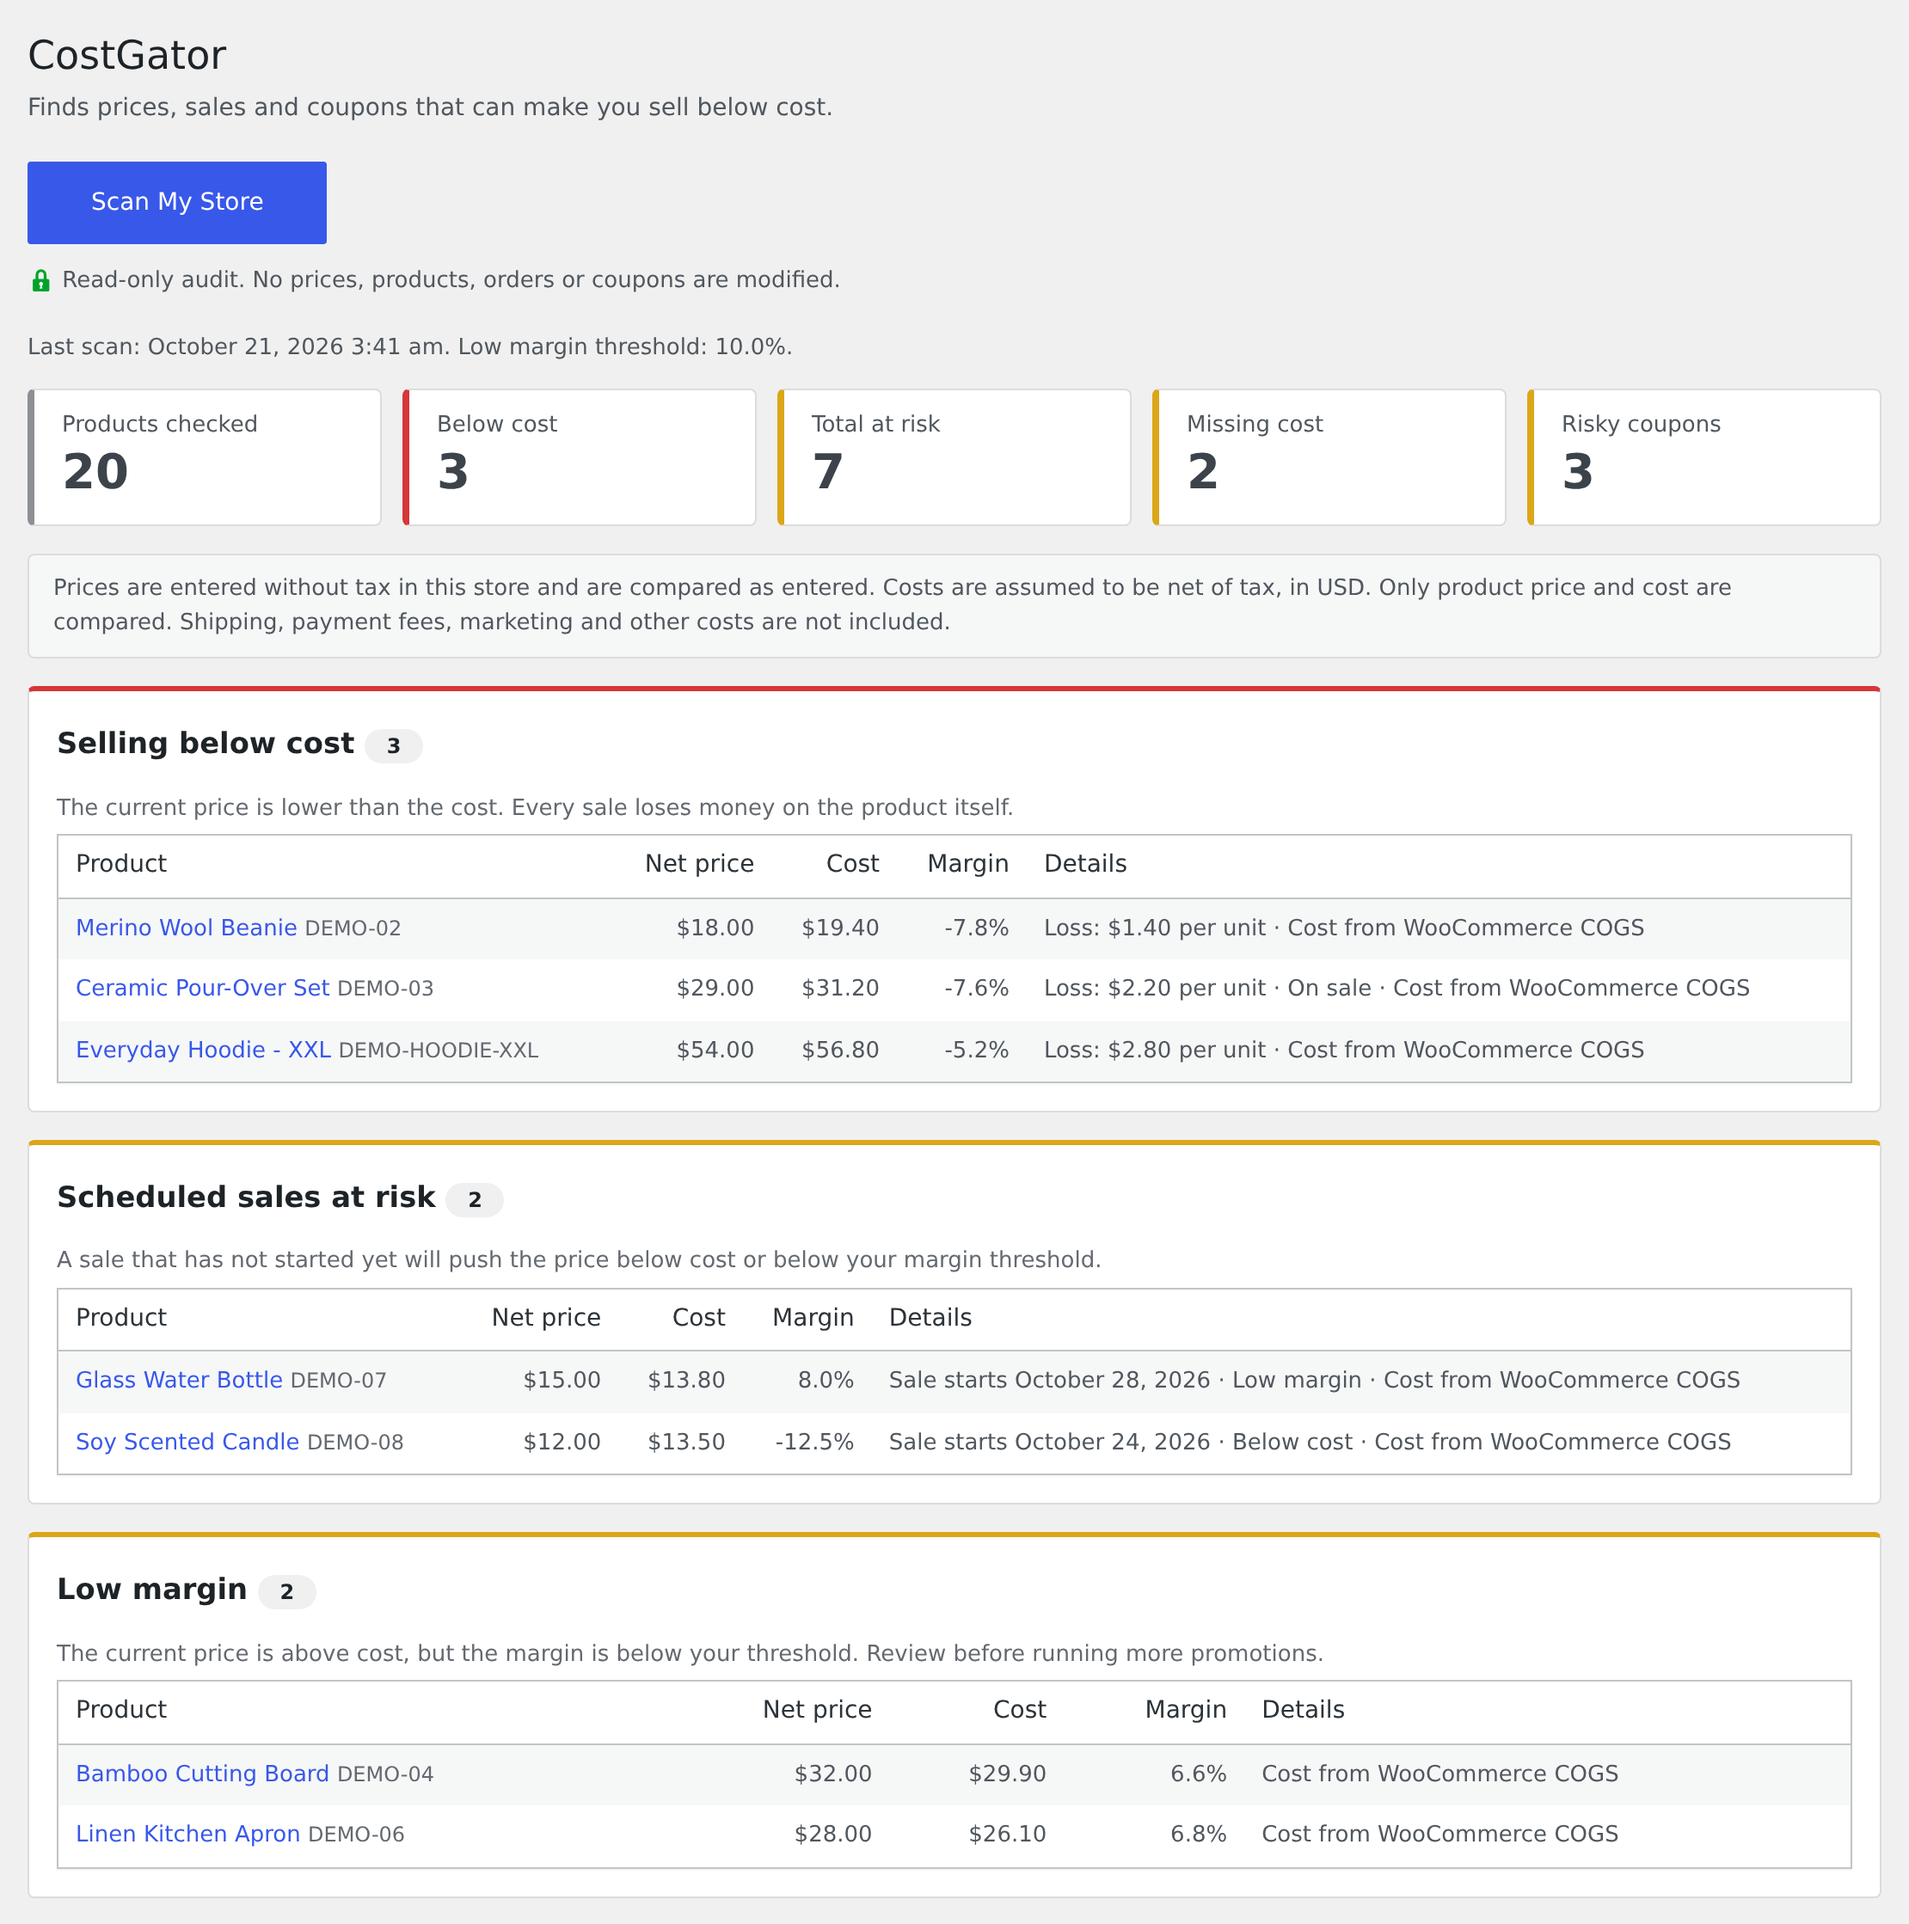
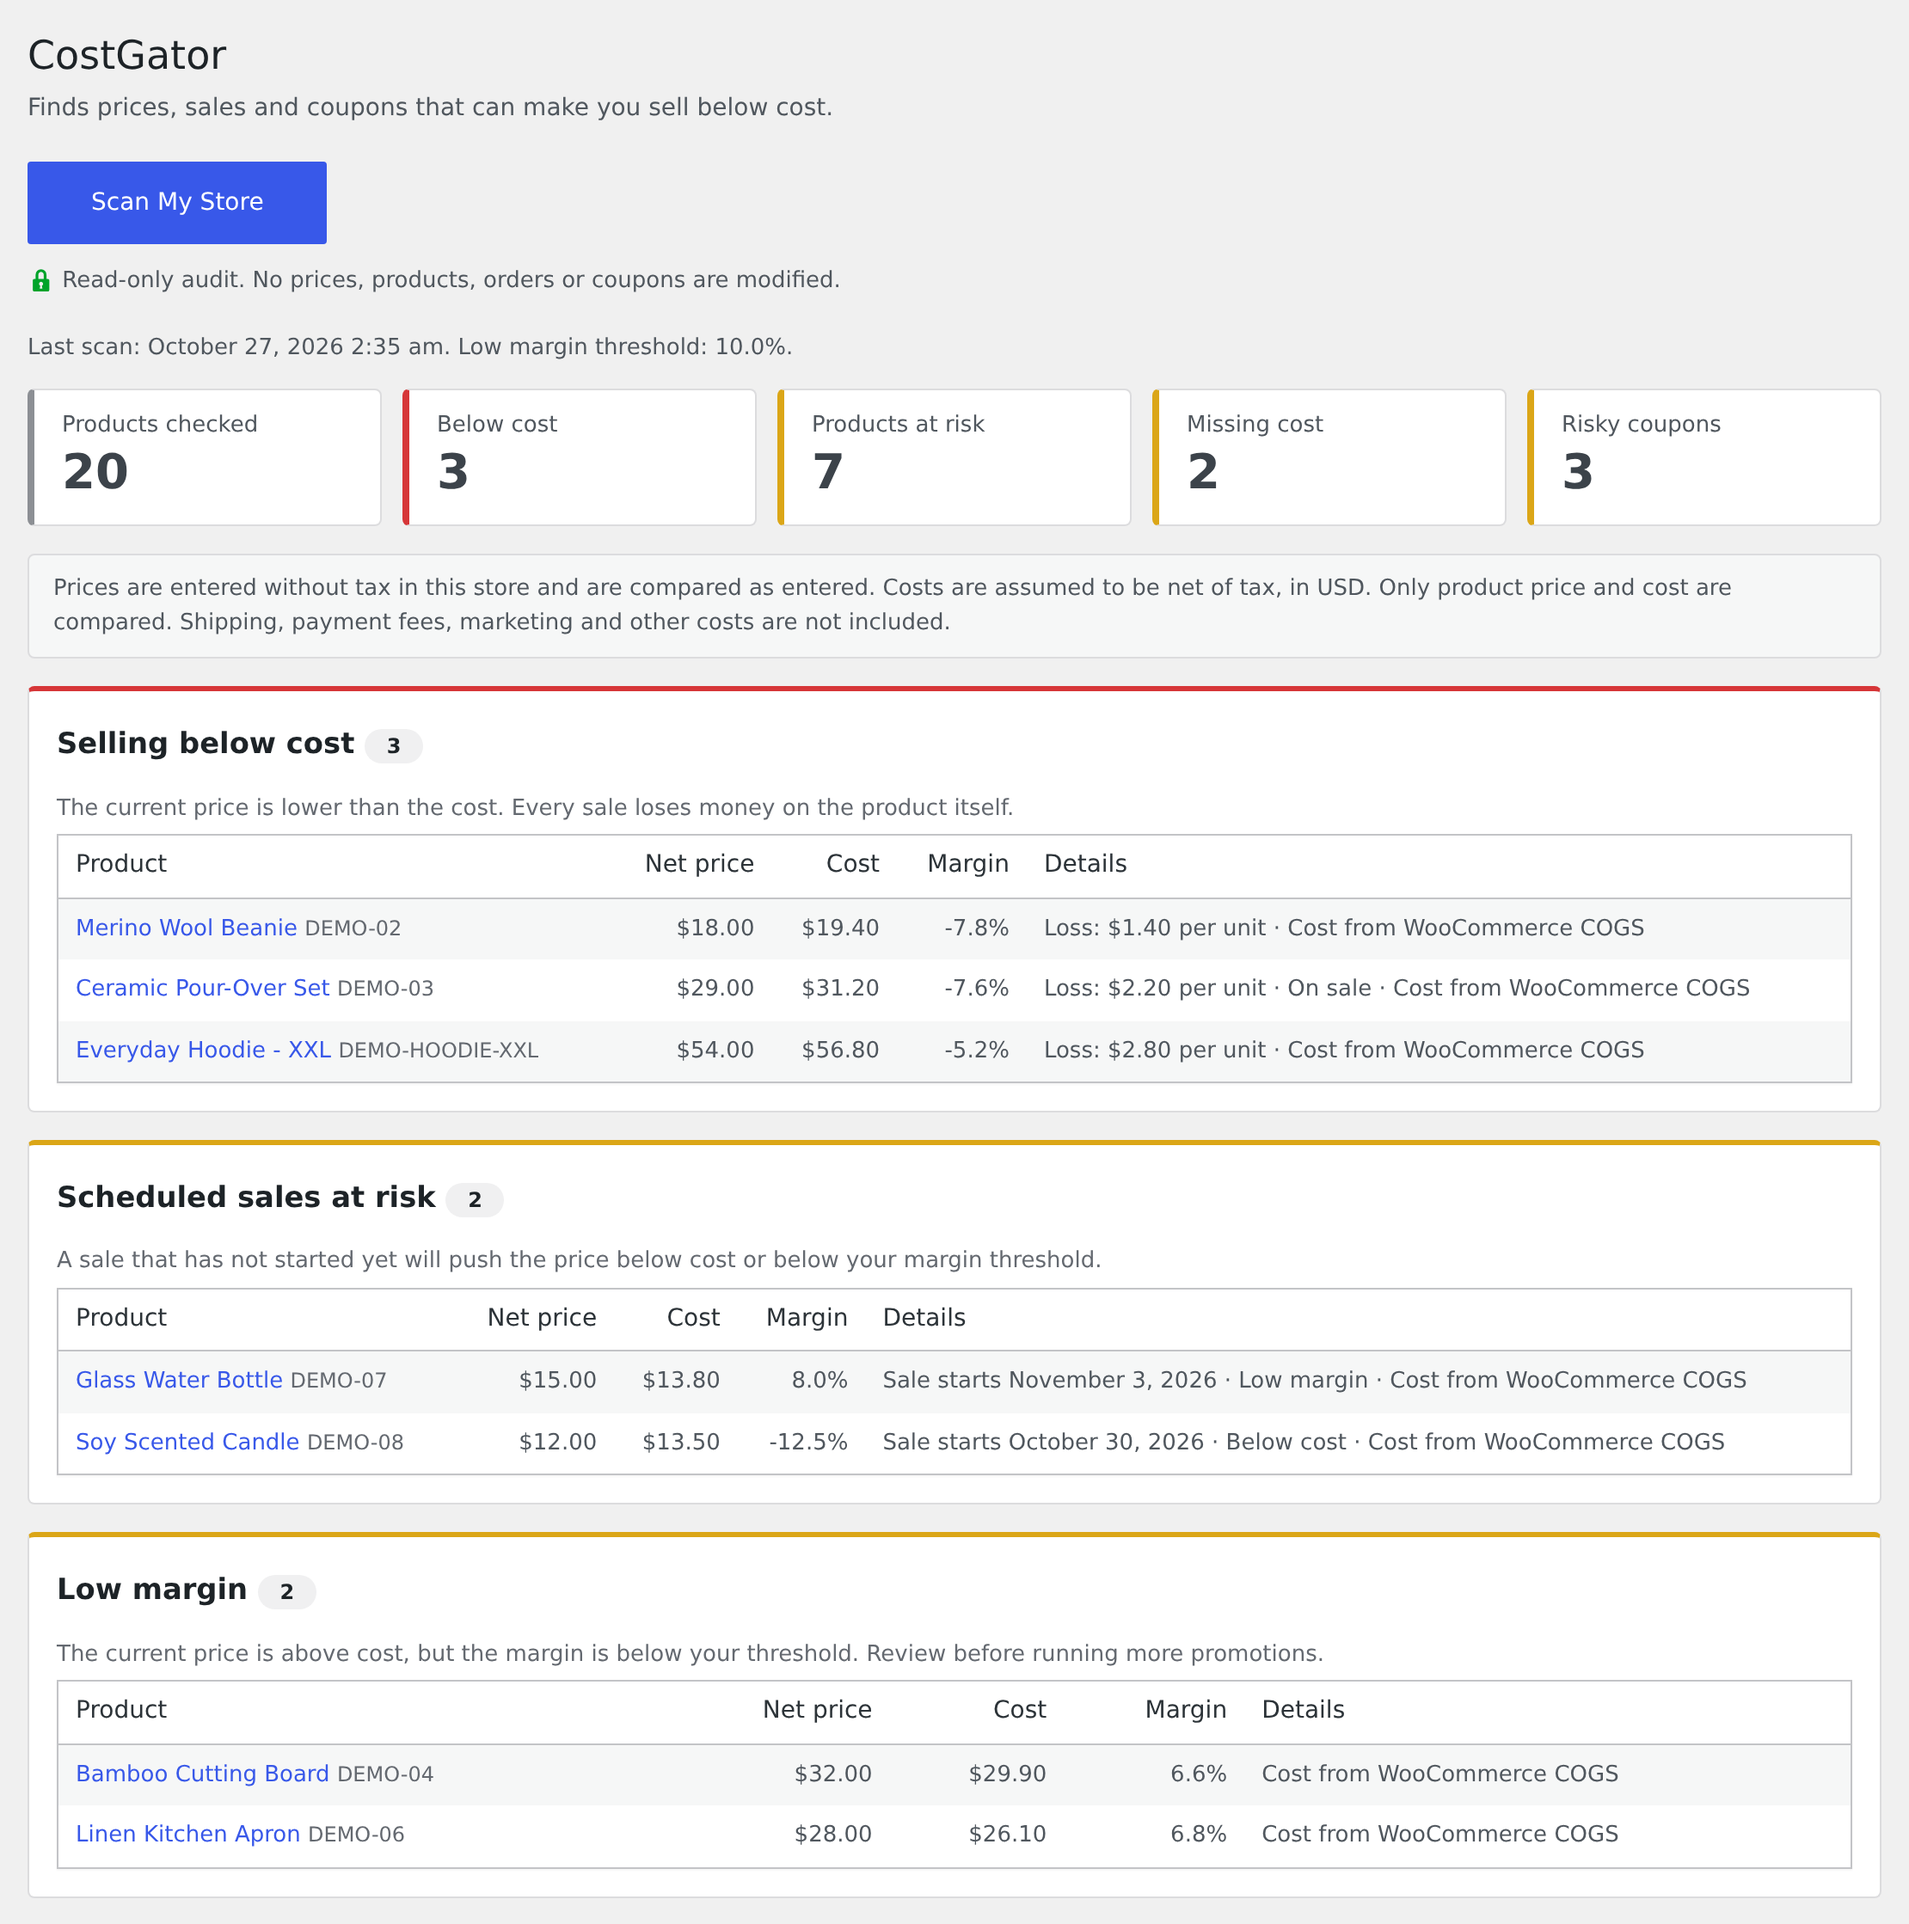
CostGator Margin Audit for WooCommerce 1.0.1

diff --git a/dev/assets-src/screenshots.js b/dev/assets-src/screenshots.js
@@ -40,10 +40,10 @@ async function shoot(page, file, first, last) {
   await sections.nth(mi).evaluate(e => e.id = 'shot-missing');
   await sections.nth(2).evaluate(e => e.id = 'shot-low');
   await shoot(page, 'screenshot-1.png', '.costgator-wrap h1', '#shot-low');
-  await shoot(page, 'screenshot-2.png', '#shot-coupons', '#shot-missing');
+  await shoot(page, 'screenshot-3.png', '#shot-coupons', '#shot-missing');
   await page.goto(base + '/wp-admin/admin.php?page=costgator&preflight=25&basis=regular');
   await page.waitForLoadState('networkidle');
-  await shoot(page, 'screenshot-3.png', '#costgator-preflight', '#costgator-preflight');
+  await shoot(page, 'screenshot-2.png', '#costgator-preflight', '#costgator-preflight');
   console.log('js errors:', JSON.stringify(errors));
   await browser.close();
 })().catch(e => { console.error(e); process.exit(1); });

diff --git a/costgator/costgator.php b/costgator/costgator.php
@@ -2,7 +2,7 @@
 /**
  * Plugin Name:          CostGator Margin Audit for WooCommerce
  * Description:          Find WooCommerce products, sales and coupons that sell below cost or below your margin. Test a discount before you launch it.
- * Version:              1.0.0
+ * Version:              1.0.1
  * Requires at least:    6.5
  * Requires PHP:         7.4
  * Requires Plugins:     woocommerce
@@ -18,7 +18,7 @@
 
 defined( 'ABSPATH' ) || exit;
 
-define( 'COSTGATOR_VERSION', '1.0.0' );
+define( 'COSTGATOR_VERSION', '1.0.1' );
 define( 'COSTGATOR_FILE', __FILE__ );
 define( 'COSTGATOR_DIR', plugin_dir_path( __FILE__ ) );
 

diff --git a/costgator/includes/class-admin.php b/costgator/includes/class-admin.php
@@ -24,7 +24,7 @@ final class Admin {
 	/**
 	 * Landing page of the upcoming Pro version. The waitlist box stays hidden while this is empty.
 	 */
-	const PRO_WAITLIST_URL = '';
+	const PRO_WAITLIST_URL = 'https://getcostgator.com/';
 
 	/**
 	 * Hook registration.
